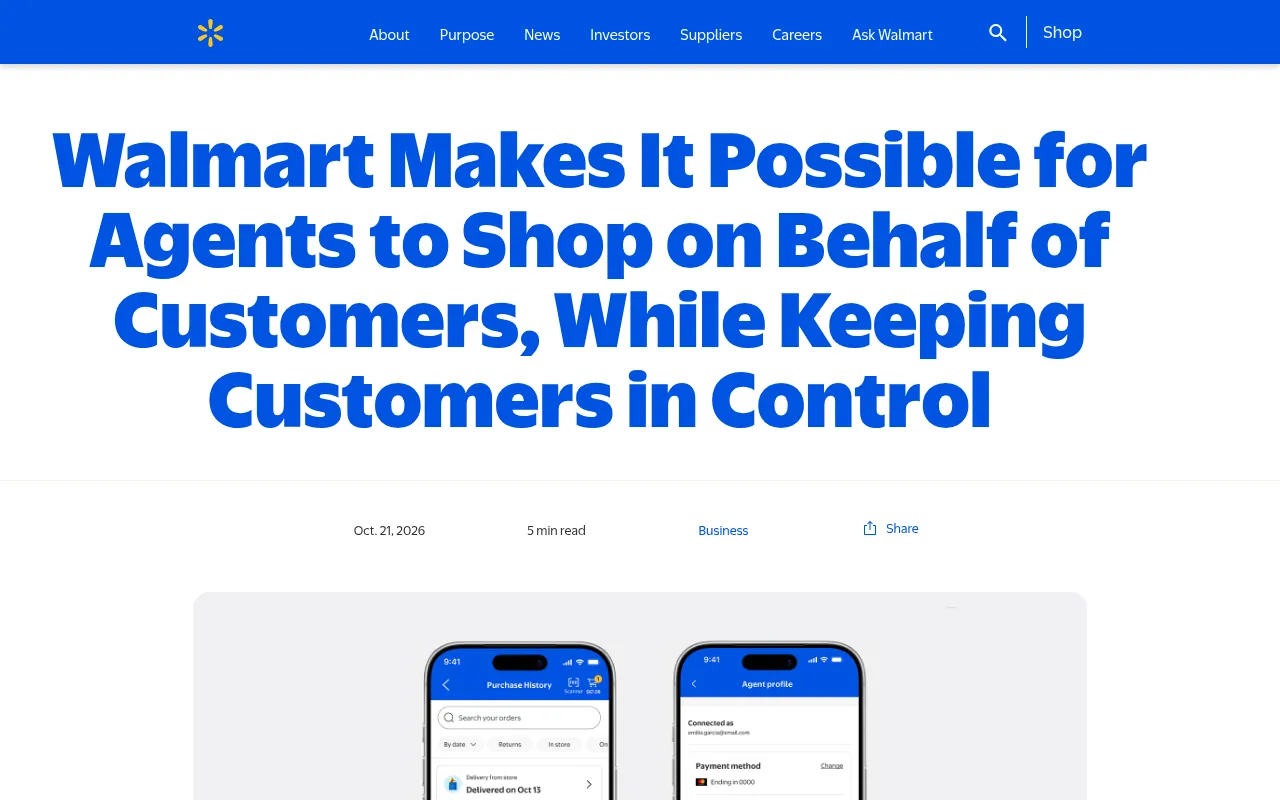
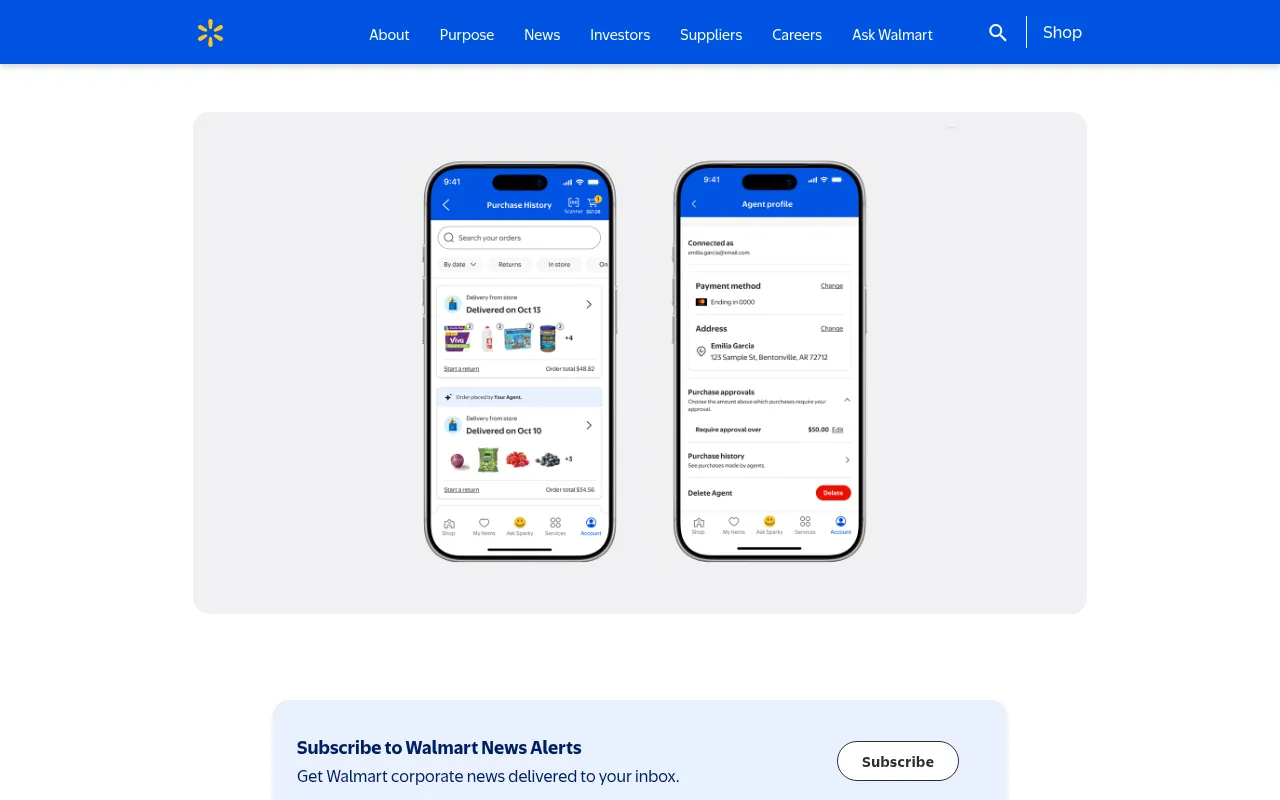
blog: agent-approval-ui-budgets-interruptions — scroll Walmart screenshot to the Agent Profile screens

Changed region(s): [[0.0312, 0.1562, 0.9062, 0.7188], [0.2188, 0.7812, 0.75, 1.0]]

diff --git a/blog_src/images2.py b/blog_src/images2.py
@@ -101,7 +101,7 @@ IMAGES2 = {
   S('https://quiver.ai/models/arrow-2/','QuiverAI','QuiverAI Arrow 2 model page: SVG generation, editing, animation and vectorization','QuiverAI Arrow 2 模型页：SVG 生成、编辑、动画与矢量化',captured='2026-10-23',dismiss=['button:has-text("Accept")','button:has-text("Accept all")','[aria-label*="lose"]']),
   D('checks','Four checks before an AI SVG ships','Grid: one stroke weight across the set, colour from currentColor or tokens, clean file with viewBox kept, and the right ARIA role','网格：整套统一描边粗细，颜色来自 currentColor 或 Token，文件干净且保留 viewBox，设置正确的 ARIA 角色',steps=[('Consistency','One stroke weight','same grid, caps and radii'),('Colour','currentColor or tokens','follows light and dark'),('File','SVGO, keep viewBox','no editor metadata'),('Role','aria-hidden or a title','decorative vs meaningful')])]),
 'agent-approval-ui-budgets-interruptions': dict(cover=dict(chips=[('Never','off-limits'),('Ask','preview first'),('Budget','$ / week'),('Ledger','agent-only list')]), inline=[
-  S('https://corporate.walmart.com/news/2026/10/Making-It-Possible-for-Agents-to-Shop-on-Behalf-of-Customers','Walmart','Walmart announcement introducing Agent Profiles, the Agent Gateway and terms for AI agents','Walmart 公告：推出 Agent Profiles、Agent Gateway 和 AI 智能体条款',captured='2026-10-26',dismiss=['button:has-text("Accept")','button:has-text("Accept all")','button:has-text("Got it")','[aria-label*="lose"]']),
+  S('https://corporate.walmart.com/news/2026/10/Making-It-Possible-for-Agents-to-Shop-on-Behalf-of-Customers','Walmart','Walmart announcement introducing Agent Profiles, the Agent Gateway and terms for AI agents','Walmart 公告：推出 Agent Profiles、Agent Gateway 和 AI 智能体条款',captured='2026-10-26',scroll=480,dismiss=['button:has-text("Accept")','button:has-text("Accept all")','button:has-text("Got it")','[aria-label*="lose"]']),
   D('flow','The autonomy ladder','Ladder: never allowed, ask every time by default, act within a budget the person set, and every agent action visible afterwards in its own ledger','阶梯：永不允许，默认每次都问，在用户设定的预算内执行，所有智能体操作事后都能在独立记录里查到',steps=[('Never','Off-limits','move money · change payment'),('Ask','Default for consequences','send · pay · sign · delete'),('Budget','Chosen by the person','$100 / week · 10 msgs / day'),('Ledger','Visible afterwards','agent actions, listed apart')]),
   S('https://claude.com/resources/articles/claude-duet','Anthropic','Anthropic announcement introducing Claude Duet, a proactive agent that checks before it acts','Anthropic 公告：介绍会在行动前先确认的主动型智能体 Claude Duet',captured='2026-10-26',dismiss=['button:has-text("Accept")','button:has-text("Accept all")','button:has-text("Got it")','[aria-label*="lose"]']),
   D('checks','Anatomy of an approval card','Grid: who is asking, the exact action, scope and cost, and Approve, Edit or Deny choices','网格：谁在请求、具体操作、范围与花费、批准/编辑/拒绝选项',steps=[('Who','Agent name + icon','never the owner’s avatar'),('What','The exact action','recipient · text · item · price'),('Scope','Cost and budget left','$38 of $100 this week'),('Choice','Approve · Edit · Deny','Deny as easy as Approve')])]),
